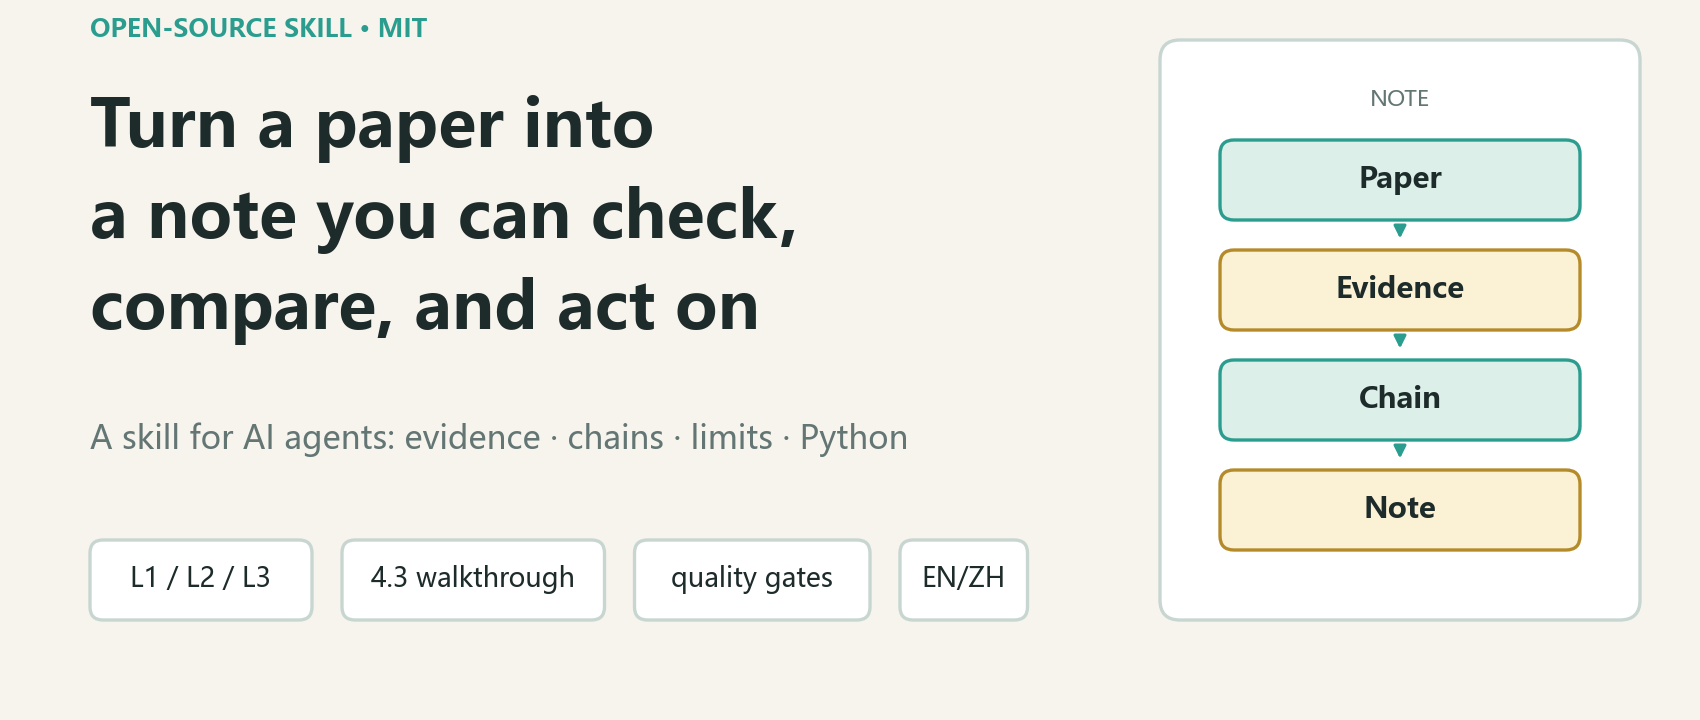
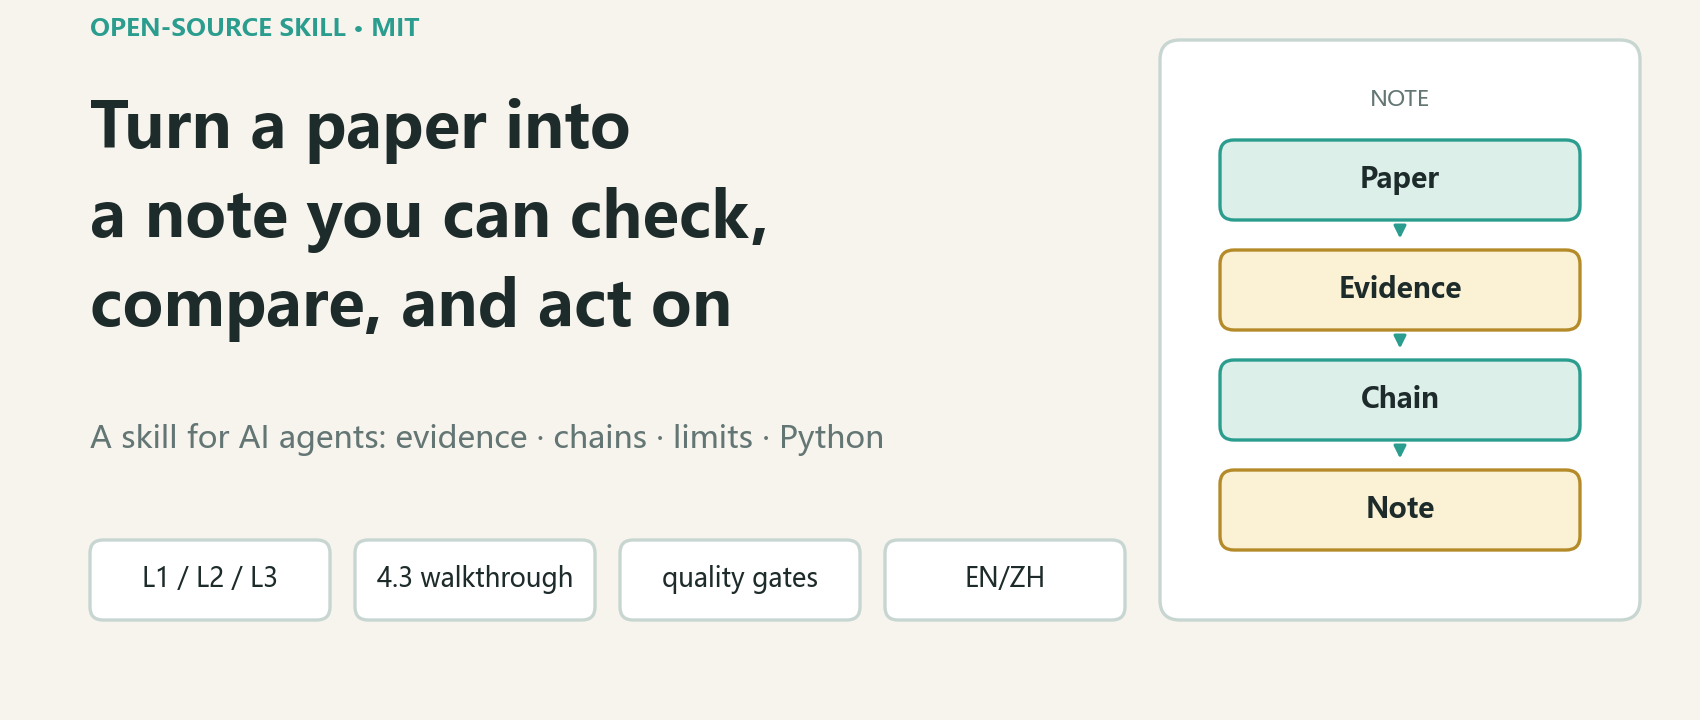
docs: use uniform padded chips on cover

diff --git a/docs/make_figures.py b/docs/make_figures.py
@@ -436,21 +436,20 @@ def cover(lang: str):
         y = 50 - i * 11
         rounded(ax, 122, y, 36, 8, fill=TEAL_L if i % 2 == 0 else YELLOW_L,
                 edge=TEAL if i % 2 == 0 else "#B58B2A", radius=1.4)
-        text(ax, 140, y + 4, s, size=10.5, weight="bold")
+        text(ax, 140, y + 4, s, size=10, weight="bold")
         if i < 3:
             arrow(ax, 140, y - 0.4, 140, y - 2.4, color=TEAL, lw=1.1, ms=9)
 
-    text(ax, 9, 69, L["kicker"], size=9, color=TEAL, weight="bold", ha="left")
-    text(ax, 9, 50, L["title"], size=25 if lang == "zh" else 23.5,
+    text(ax, 9, 69, L["kicker"], size=8.8, color=TEAL, weight="bold", ha="left")
+    text(ax, 9, 50, L["title"], size=24 if lang == "zh" else 22.5,
          weight="bold", ha="left", va="center", linespacing=1.45)
-    text(ax, 9, 28, L["sub"], size=11.5, color=MUTED, ha="left", linespacing=1.5)
+    text(ax, 9, 28, L["sub"], size=11.2, color=MUTED, ha="left", linespacing=1.5)
 
-    x = 9
-    for chip in L["chips"]:
-        w = 6.0 + display_width(chip) * 1.35
-        rounded(ax, x, 10, w, 8, fill=WHITE, edge=LINE, radius=1.3)
-        text(ax, x + w / 2, 14, chip, size=9.5, color=INK)
-        x += w + 3
+    chip_w, chip_gap = 24, 2.5
+    for i, chip in enumerate(L["chips"]):
+        x = 9 + i * (chip_w + chip_gap)
+        rounded(ax, x, 10, chip_w, 8, fill=WHITE, edge=LINE, radius=1.3)
+        text(ax, x + chip_w / 2, 14, chip, size=9.2, color=INK)
 
     fig.savefig(OUT / f"cover-{lang}.png", dpi=200, facecolor=BG)
     plt.close(fig)
